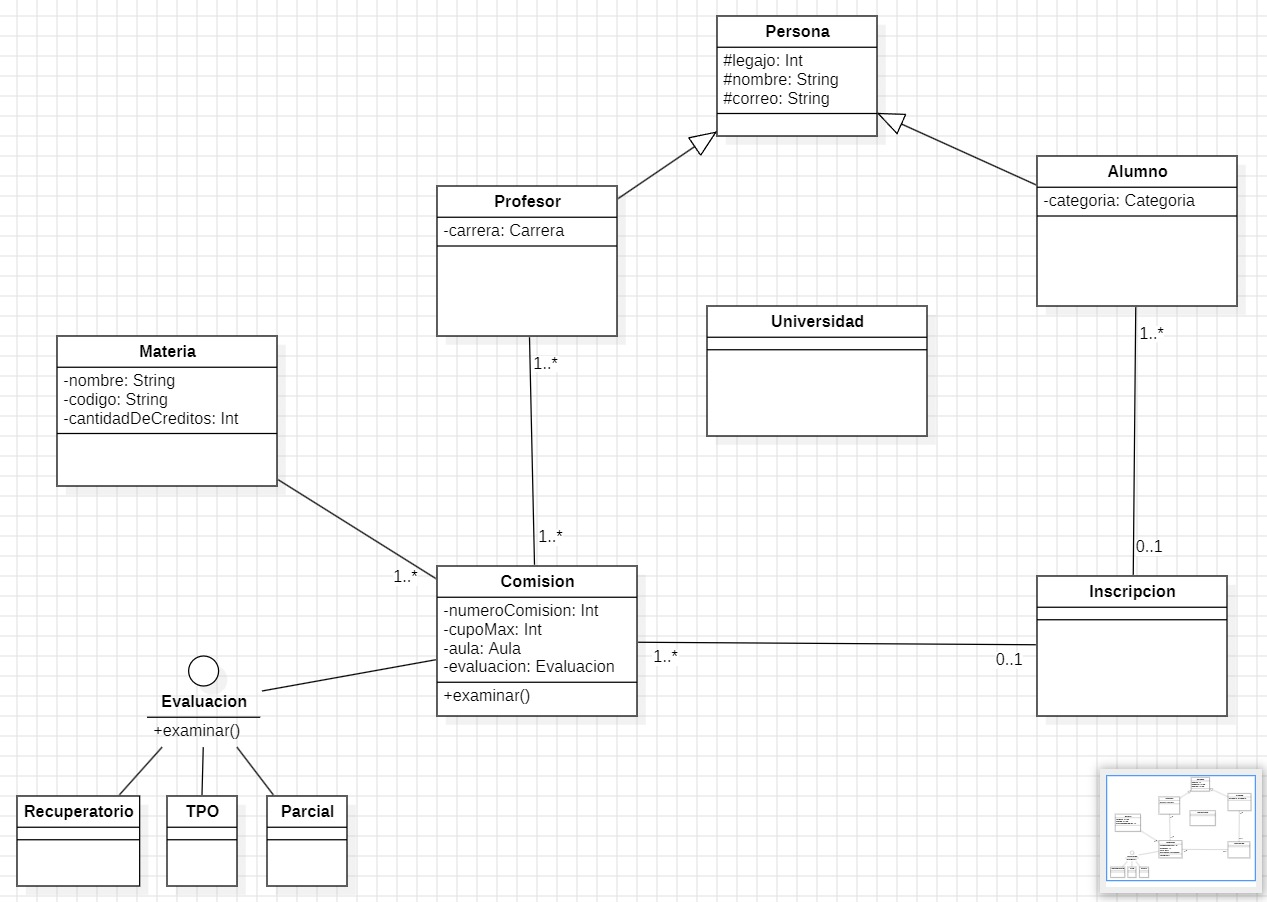
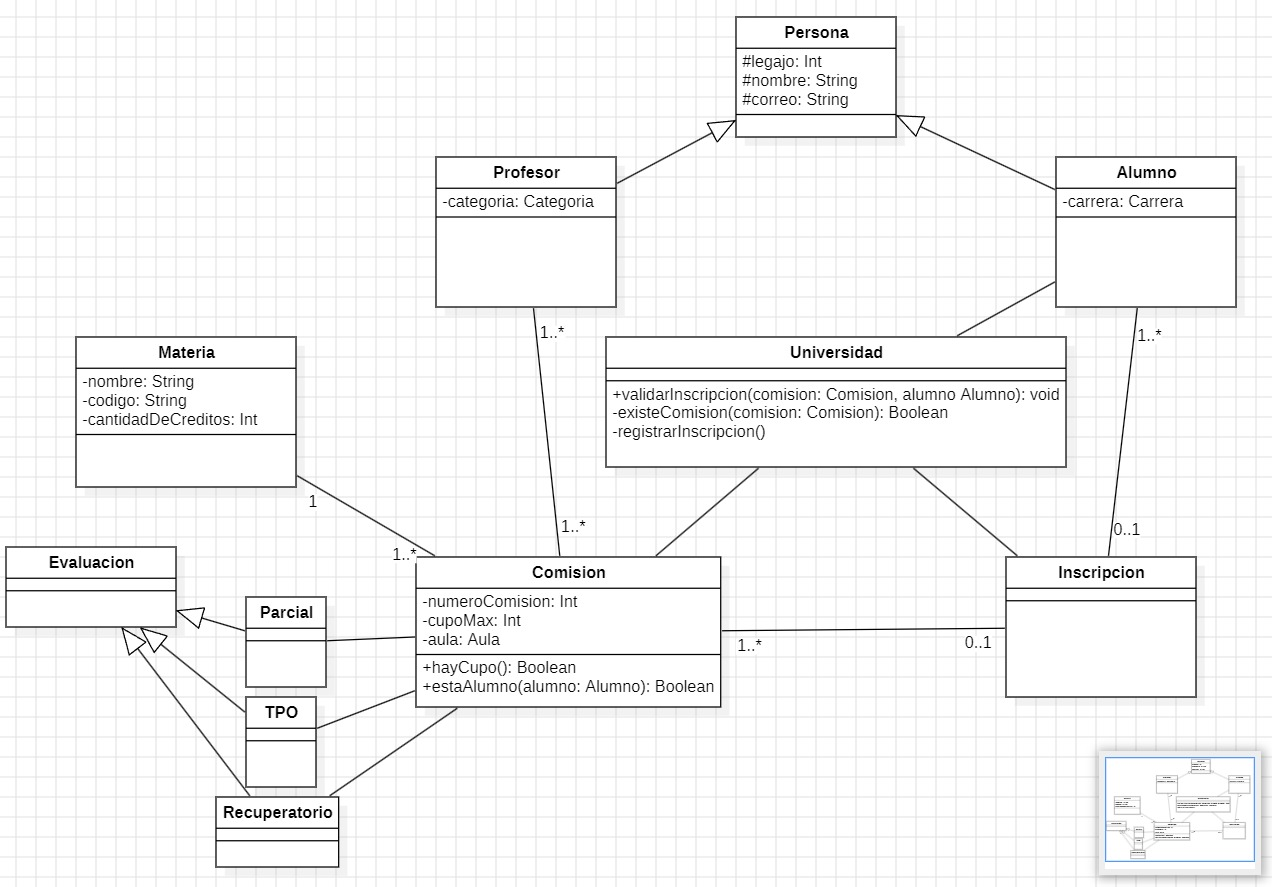
docs: actividad grupal completa

diff --git a/src/GuiaDeEjercitacion/Actividad Grupal.md b/src/GuiaDeEjercitacion/Actividad Grupal.md
@@ -1,4 +1,4 @@
-# Actividad grupal - UML y Java 
+# Actividad Grupal - UML y Java 
 
 - **Comisión:** 579655  
 - **Grupo N°:** El One Piece 
@@ -14,7 +14,7 @@
 
 ### Clases candidatas y responsabilidades 
 |         Clase         |                          Responsabilidad                           | Tipo (dominio/servicio) |
-| :-------------------: | :----------------------------------------------------------------: | :---------------------: |
+|:---------------------:|:------------------------------------------------------------------:|:-----------------------:|
 | `Persona` (abstracta) |        Datos comunes de identidad (legajo, nombre, correo)         |         Dominio         |
 |       `Alumno`        |            Se inscribe en comisiones; conoce su carrera            |         Dominio         |
 |       `Docente`       |               Dicta comisiones; conoce su categoría                |         Dominio         |
@@ -22,19 +22,27 @@
 |      `Comisión`       |               Gestiona cupo, aula y sus evaluaciones               |         Dominio         |
 |     `Inscripción`     |       Representa el vínculo alumno-comisión con su resultado       |         Dominio         |
 |     `Evaluación`      | Instancia de evaluación (parcial, TP, etc.) dentro de una comisión |         Dominio         |
-|                       |                                                                    |                         |
+|     `Universidad`     |       Orquesta las validaciones del caso de uso "inscribir"        |        Servicio         |
+
 ### Generalización identificada 
 
-`Persona → Alumno / Docente`. Se justifica porque ambos comparten legajo/nombre/correo pero difieren en atributos y comportamiento (`carrera` vs `categoria`),  conviene tratarlos polimórficamente en cualquier lista de "personas registradas" sin duplicar código.
+`Persona → Alumno / Docente`. Se justifica porque ambos comparten legajo/nombre/correo, pero difieren en atributos y comportamiento (`carrera` vs `categoria`),  conviene tratarlos polimórficamente en cualquier lista de "personas registradas" sin duplicar código.
 
 ---
 ## Parte 2 - Diagrama de clases
 ![Diagrama de Clases](assets/diagrama_clases.png)
-### Justificación
 
 ### Justificación Comisión-Evaluación 
+
+La existencia de ``Evaluación`` está atada al ciclo de vida de `Comision`: si se borra la comisión, sus evaluaciones dejan de tener sentido.
+
 ### Justificación de multiplicidad elegida 
+
+Docente 1.* en Comisión: refleja la regla de negocio "una comisión debe tener al menos un docente y puede tener hasta dos". No es una simple recomendación, es una restricción del modelo.
+
 ### Respuesta pregunta de control
+
+Cada instancia de ``Comision`` tiene asignado como mínimo un docente y a lo sumo dos — nunca cero ni más de dos.
 
 ---
 ## Parte 3 - Diagrama de secuencia
@@ -43,9 +51,15 @@
 
 ### Matriz de trazabilidad
 
-| Mensaje | Objeto receptor | Método/responsabilidad |
-| :-----: | :-------------: | :--------------------: |
-|         |                 |                        |
+|             Mensaje              | Objeto receptor |             Método/responsabilidad              |
+|:--------------------------------:|:---------------:|:-----------------------------------------------:|
+| ``validarInscripcion(comision)`` |   Universidad   | `+validarInscripcion(comision: Comision): void` |
+|         `existeComision`         |   Universidad   | `-existeComision(comision: Comision): Boolean`  |
+|            `hayCupo`             |    Comision     |              `+hayCupo(): Boolean`              |
+|       `estaAlumno(alumno)`       |    Comision     |     `+estaAlumno(alumno: Alumno): Boolean`      |
+|      `RegistrarInscripcion`      |   Universidad   |            `-registrarInscripcion()`            |
+|     <<create>>`Inscripcion`      |   Inscripcion   |     Constructor de la clase  `Inscripcion`      |
+
 
 ---
 ## Parte 4 - De modelo a Java
@@ -53,27 +67,41 @@
 ### A. Firmas de métodos
 
 ```java
-
+public Comision(int numero, int cupoMaximo, String aula){}
+public boolean hayCupoDisponible(){}
+public Inscripcion registrarInscripcion(Alumno alumno, Comision comision) { }
+public int getCupoDisponible() { }
 ```
 
 ### B. Tipos primitivos y wrappers
 
-| Dato | Primitivo | Wrapper | Por qué conviene |
-| :--: | :-------: | :-----: | :--------------: |
-|      |           |         |                  |
+| Dato                      | Primitivo | Wrapper   | Por qué conviene                                                                 |
+|---------------------------|-----------|-----------|----------------------------------------------------------------------------------|
+| ``CupoMaximo``            | `int`     | `Integer` | Si se usa en ``List<Integer> ``genéricos                                         |
+| `cantidadInscriptos`      | `int`     | `Integer` | Idem — colecciones que exigen objetos                                            |
+| ``promedioFinal``         | `double`  | `Double`  | ``null`` representa "sin promedio todavía", que un 0.0 confundiría con nota real |
+| ``regular``               | `boolean` | `Boolean` | Permite un tercer estado implícito ("no evaluado") con ``null``                  |
 
 ### Explicación de wrapper + ejemplo de conversión
 
+Una clase wrapper envuelve un tipo primitivo en un objeto, para poder usarlo donde Java exige objetos (genéricos, colecciones, valores nulos). 
+
+Ejemplo: 
+```java
+int cupo = 30;
+Integer cupoObj = cupo; // autoboxing y a la inversa
+int cupo2 = cupoObj; // unboxing
+```
 ---
 ## Parte 5 - Revisión final
 
-- [ ] Diagrama de clases con atributos, operaciones y relaciones legibles
-- [ ] Multiplicidad en ambos extremos de cada asociación
-- [ ] Generalización orientada de subclases a superclase
-- [ ] Comisión-Evaluación representada y justificada
-- [ ] Secuencia con líneas de vida, orden y alternativas de error
-- [ ] Nombres consistentes entre diagramas
-- [ ] Firmas Java compatibles con el modelo
-- [ ] Tabla de wrappers completa
-- [ ] Todos los integrantes figuran en la entrega
+- [✓] Diagrama de clases con atributos, operaciones y relaciones legibles
+- [✓] Multiplicidad en ambos extremos de cada asociación
+- [✓] Generalización orientada de subclases a superclase
+- [✓] Comisión-Evaluación representada y justificada
+- [✓] Secuencia con líneas de vida, orden y alternativas de error
+- [✓] Nombres consistentes entre diagramas
+- [✓] Firmas Java compatibles con el modelo
+- [✓] Tabla de wrappers completa
+- [✓] Todos los integrantes figuran en la entrega
 
